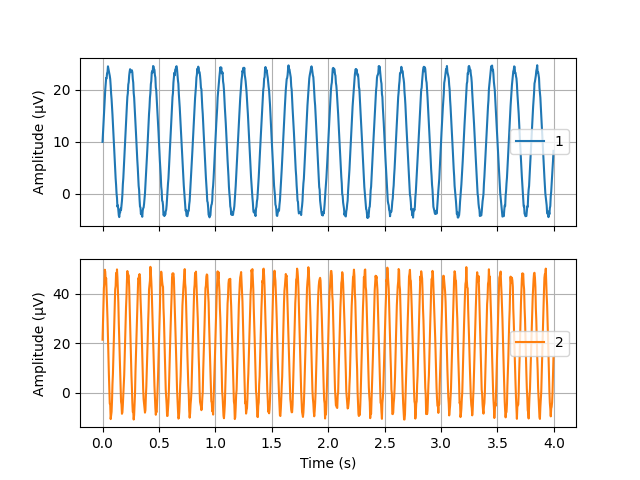
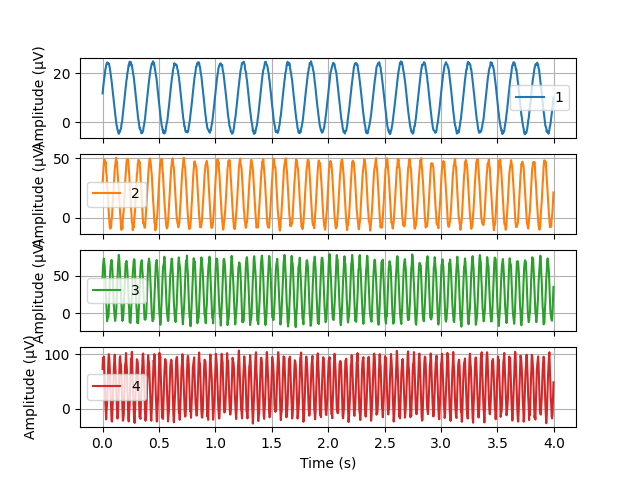
plot fft function added

diff --git a/mycodes/synthetic_fft_plot.py b/mycodes/synthetic_fft_plot.py
@@ -28,6 +28,51 @@ def plot_timeseries(data, emg_channels, sampling_rate, file_name):
     plt.grid(True)
     plt.savefig(file_name)
     
+def plot_fft(data, channel, sampling_rate):
+    fft_data = np.fft.fft(data)
+    
+    # Compute the magnitudes of the FFT result
+    magnitude = np.abs(fft_data)
+    
+    # Generate the frequency axis
+    N = len(fft_data)
+    T = 1/sampling_rate
+    freq = np.fft.fftfreq(N, T)
+    
+    # Filter frequencies and amplitudes above 0
+    positive_freq = freq[(freq > 0) & (magnitude > 0)]
+    positive_mag = magnitude[(freq > 0) & (magnitude > 0)]
+    
+    # Filter frequencies and amplitudes above M uV
+    M = 10000
+    marked_freq = freq[magnitude > M]
+    marked_mag = magnitude[magnitude > M]
+
+    # Plot the FFT result
+    plt.figure(figsize=(10, 5))
+    plt.plot(positive_freq, positive_mag, linestyle='-', linewidth=1)
+    plt.scatter(marked_freq, marked_mag, marker='o')  # Plot markers for positive amplitudes
+    plt.xlabel('Frequency (Hz)')
+    plt.ylabel('Amplitude (μV)')
+    
+    # This is to enable logaritmic scale
+    #plt.yscale('log')
+    #plt.yticks([0.1, 1, 10, 100, 1000], ['0.1', '1', '10', '100', '1000'])
+    
+    # Set the x-axis limit to 0-100 Hz and the y-axis limit to auto
+    plt.xlim(0, 100)
+    plt.ylim(0, auto=True)
+    plt.title('FFT Channel %d Plot' % channel)
+    plt.grid(True)
+
+    # Annotate the most powerful frequencies with their amplitudes
+    for f, mag in zip(marked_freq, marked_mag):
+        plt.annotate(f'{f:.2f} Hz\n{mag:.2f} μV', xy=(f, mag), xytext=(f + 5, mag),
+                    arrowprops=dict(facecolor='black', arrowstyle='->'), bbox=dict(facecolor='white', alpha=0.5))
+    
+    # Save the plot
+    #plt.savefig('fft_channel_%d.png' % channel) 
+    
 
 def main():
     BoardShim.enable_dev_board_logger()
@@ -48,7 +93,7 @@ def main():
     board.stop_stream()
     board.release_session()
 
-    emg_channels = [1,2]
+    emg_channels = [1,2,3,4]
     print('Sampling Rate: %d' % sampling_rate)
     print('Num of Samples: %d' % num_points)
     print('Len of Data: %d' % len(data[1]))
@@ -62,46 +107,8 @@ def main():
 
         # Denoise data
         DataFilter.remove_environmental_noise(data[channel], sampling_rate, NoiseTypes.FIFTY_AND_SIXTY)
-
-        # Calculate FFT on the detrended signal, len of data must be a power of 2 (256 in this case)
-        fft_data = DataFilter.perform_fft(data[channel], WindowOperations.BLACKMAN_HARRIS.value)
-
-        # Compute the magnitudes of the FFT result
-        magnitude = np.abs(fft_data)
         
-        # Generate the frequency axis
-        N = len(fft_data)
-        T = 1/sampling_rate
-        freq = np.fft.fftfreq(N, T)
-        
-        # Filter frequencies and amplitudes above 0.5
-        positive_freq = freq[(freq > 0) & (magnitude > 0)]
-        positive_mag = magnitude[(freq > 0) & (magnitude > 0)]
-        
-        # Filter frequencies and amplitudes above 10000uV
-        marked_freq = freq[magnitude > 10000]
-        marked_mag = magnitude[magnitude > 10000]
-
-        # Plot the FFT result
-        plt.figure(figsize=(10, 5))
-        plt.plot(positive_freq, positive_mag, linestyle='-', linewidth=1)
-        plt.scatter(marked_freq, marked_mag, marker='o')  # Plot markers for positive amplitudes
-        plt.xlabel('Frequency (Hz)')
-        plt.ylabel('Amplitude (μV)')
-        #plt.yscale('log')
-        #plt.yticks([0.1, 1, 10, 100, 1000], ['0.1', '1', '10', '100', '1000'])
-        # Set the x-axis limit to 0-100 Hz and the y-axis limit to auto
-        plt.xlim(0, 100)
-        plt.ylim(0, auto=True)
-        plt.title('FFT Channel %d Plot' % channel)
-        plt.grid(True)
-
-        # Annotate the most powerful frequencies with their amplitudes
-        for f, mag in zip(marked_freq, marked_mag):
-            plt.annotate(f'{f:.2f} Hz\n{mag:.2f} μV', xy=(f, mag), xytext=(f + 5, mag),
-                        arrowprops=dict(facecolor='black', arrowstyle='->'), bbox=dict(facecolor='white', alpha=0.5))
-        
-        #plt.savefig('fft_channel_%d.png' % channel)
+        plot_fft(data[channel], channel, sampling_rate)
         
         #psd = DataFilter.get_psd_welch(data[channel], num_points, num_points // 2, sampling_rate,
         #                           WindowOperations.BLACKMAN_HARRIS.value)
